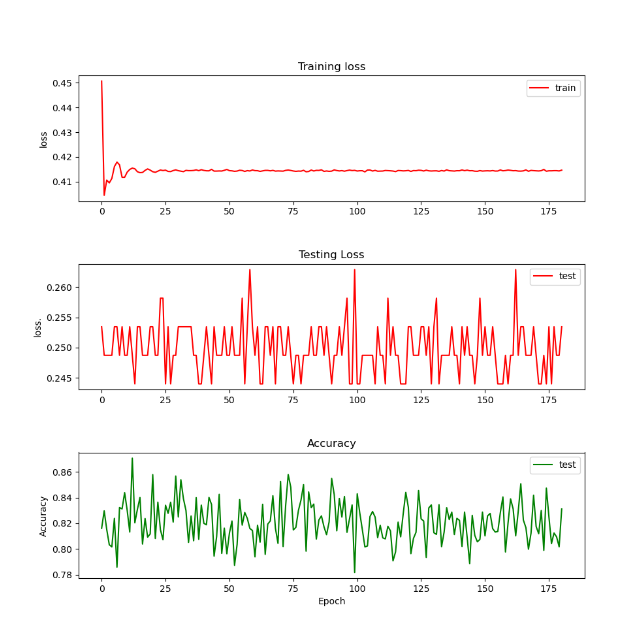
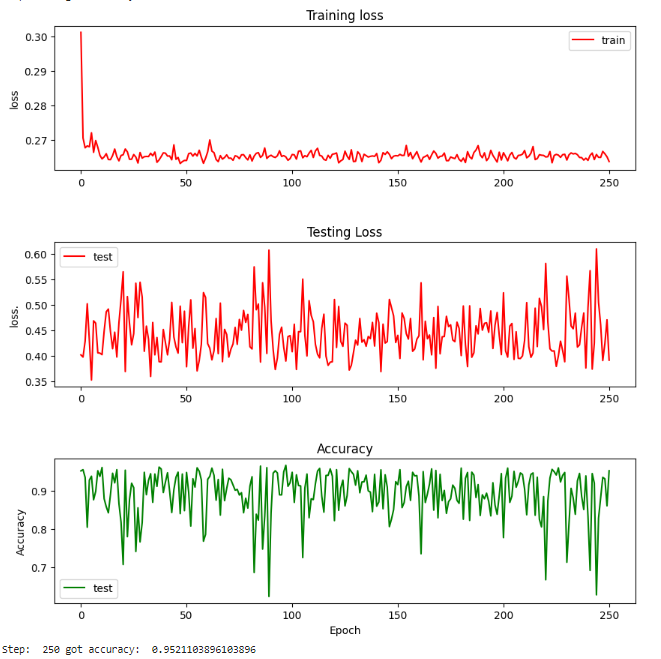
Add variance calculation to BBB

diff --git a/bayes-by-backprop.py b/bayes-by-backprop.py
@@ -8,25 +8,22 @@ import pandas as pd
 import matplotlib.pyplot as plt
 
 
-PERCENT_OF_MIXED_LABELS = 0
+PERCENT_OF_MIXED_LABELS = 0.2
 BATCH_SIZE = 32
 TRAIN_TEST_SPLIT = 0.7
 LEARNING_RATE = 0.01
 NUMBER_OF_EPOCHS = 300
 HIDDEN_LAYER_NODES_1 = 50
-HIDDEN_LAYER_NODES_2 = 50
+HIDDEN_LAYER_NODES_2 = 20
 HIDDEN_LAYER_NODES_3 = 20
 
 WEIGHT_OF_CROSS_ENTROPY_LOSS = 0.9
 WEIGHT_OF_KL_DIVERGENCE_LOSS = 0.1
 PRIOR_MU_FIRST_LAYER = 0
 PRIOR_MU_SECOND_LAYER = 0
-PRIOR_MU_THIRD_LAYER = 0
-PRIOR_MU_FOURTH_LAYER = 0
 PRIOR_SIGMA_FIRST_LAYER = 0.01
 PRIOR_SIGMA_SECOND_LAYER = 0.01
-PRIOR_SIGMA_THIRD_LAYER = 0.01
-PRIOR_SIGMA_FOURTH_LAYER = 0.01
+SAMPLES = 100
 
 OUTPUT_DIMENSION = 2
 # Load the mushroom dataset
@@ -41,9 +38,10 @@ class MushroomDataset(torch.utils.data.Dataset):
         labelValues = pd.Categorical(data[0][1:]).codes
         self.y = torch.tensor(pd.get_dummies(labelValues).values, dtype=torch.float32)
 
-        # Encode x values
+        # Drop 1 column and 1 row (output class and labels)
         data = data.drop(columns=[0])
         data = data.drop([0])
+        # Encode X values
         self.X = []
         self.inputSize = 0
         for column in data:
@@ -99,19 +97,13 @@ class BNN(nn.Module):
     def __init__(self, input_dim):
         super(BNN, self).__init__()
         self.fc1 = bnn.BayesLinear(prior_mu=PRIOR_MU_FIRST_LAYER, prior_sigma=PRIOR_SIGMA_FIRST_LAYER, in_features=input_dim, out_features=HIDDEN_LAYER_NODES_1)
-        self.fc2 = bnn.BayesLinear(prior_mu=PRIOR_MU_SECOND_LAYER, prior_sigma=PRIOR_SIGMA_SECOND_LAYER, in_features=HIDDEN_LAYER_NODES_1, out_features=HIDDEN_LAYER_NODES_2)
-        self.fc3 = bnn.BayesLinear(prior_mu=PRIOR_MU_THIRD_LAYER, prior_sigma=PRIOR_SIGMA_THIRD_LAYER, in_features=HIDDEN_LAYER_NODES_2, out_features=HIDDEN_LAYER_NODES_3)
-        self.fc4 = bnn.BayesLinear(prior_mu=PRIOR_MU_FOURTH_LAYER, prior_sigma=PRIOR_SIGMA_FOURTH_LAYER, in_features=HIDDEN_LAYER_NODES_3, out_features=OUTPUT_DIMENSION)
+        self.fc2 = bnn.BayesLinear(prior_mu=PRIOR_MU_SECOND_LAYER, prior_sigma=PRIOR_SIGMA_SECOND_LAYER, in_features=HIDDEN_LAYER_NODES_1, out_features=OUTPUT_DIMENSION)
 
     def forward(self, x):
         x = torch.cat(x, dim=1)
         x = self.fc1(x)
         x = F.relu(x)
         x = self.fc2(x)
-        x = F.relu(x)
-        x = self.fc3(x)
-        x = F.relu(x)
-        x = self.fc4(x)
         return x
 
 
@@ -130,13 +122,27 @@ def train(model, optimizer, criterion, X_train, y_train):
 
 
 def evaluate(model, criterion, X_test, y_test):
-    output = model(X_test)
-    loss = criterion(output, y_test)
-    pred_max = torch.argmax(output, dim=1)
+    outputs = []
+    for i in range(SAMPLES):
+        output = model(X_test)
+        outputs.append(output)
+    outputs = torch.stack(outputs)
+    mean = outputs.mean(dim=0)
+    predictions, max_indices = torch.max(mean, dim=1)
+
+    # Variance calculation
+    variances = outputs.var(dim=0)
+    #prediction_variances = torch.gather(variances, dim=1, index=max_indices.unsqueeze(1))
+
+    # Loss calculation
+    loss = criterion(mean, y_test)
+
+    # Accuracy calculation
     actual_max = torch.argmax(y_test, dim=1)
-    correct_count = (pred_max == actual_max).sum().item()
+    correct_count = (max_indices == actual_max).sum().item()
     acc = correct_count / y_test.shape[0]
-    return loss.item(), acc
+
+    return acc, loss.item()
 
 
 # Set the model hyperparameters
@@ -173,6 +179,7 @@ for step in range(NUMBER_OF_EPOCHS):
         else:
             loss_plot_test.append(np.mean(losses))
             acc_plot_test.append(np.mean(accs))
+            #picp_plot_test.append(np.mean(picps))
 
     if step % 10 == 0:
         _, axes = plt.subplots(nrows=3, ncols=1, figsize=(10,10))

diff --git a/montecarlo.py b/montecarlo.py
@@ -14,7 +14,7 @@ HIDDEN_LAYER_NODES_1 = 50
 HIDDEN_LAYER_NODES_2 = 20
 HIDDEN_LAYER_NODES_3 = 20
 
-NUMBER_OF_SAMPLE = 500
+SAMPLES = 500
 DROPOUT_RATE = 0.3
 
 OUTPUT_DIMENSION = 2 #don't change:
@@ -37,8 +37,10 @@ class MushroomDataset(torch.utils.data.Dataset):
         labelValues = pd.Categorical(data[0][1:]).codes
         self.y = torch.tensor(pd.get_dummies(labelValues).values, dtype=torch.float32)
 
-        # Encode x values
+        # Drop 1 column and 1 row (output class and labels)
         data = data.drop(columns=[0])
+        data = data.drop([0])
+        # Encode X values
         self.X = []
         self.inputSize = 0
         for column in data:
@@ -124,7 +126,7 @@ def evaluate(model, criterion, X_test, y_test):
 
     # Run model on a batch of inputs, NUMBER_OF_SAMPLE times
     outputs = []
-    for i in range(NUMBER_OF_SAMPLE):
+    for i in range(SAMPLES):
         output = model(X_test)
         outputs.append(output.cpu().detach().numpy())
     outputs = np.stack(outputs)

diff --git a/README.md b/README.md
@@ -1,7 +1,7 @@
 Repository contains the implementation of three BNN algorithms for the mushroom dataset - Bayes by backprop (BBB), Monte Carlo Dropout (MC-D), Variation Inference (VI).
 
 # Things to check:
-1. Kā embedding ir implemnetēts algoritmos:
+1. Kā embedding ir implementēts algoritmos:
 
 Dataset objektā katrai kategorijai tiek izveidots tensors.
 ~~~
@@ -28,7 +28,7 @@ def forward(self, x):
     return x
 ~~~
 
-2. Pašlaik BBB un MC-D implementācijas sasniedz tikai 70-80% accuracy - esmu mēģinot dažādus hiperparametru vērtīas, nespēju uzlabot algoritmus.
+2. Pašlaik BBB un MC-D implementācijas sasniedz ~70-90% accuracy un neuzlabojas to algoritmam ejot uz priekšu
 
 Novērotie rezultāti līdz šim:
 
